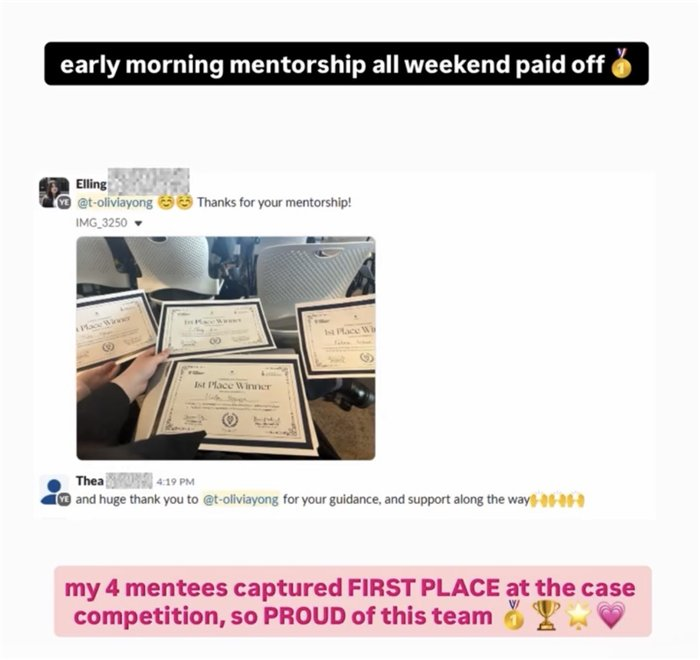
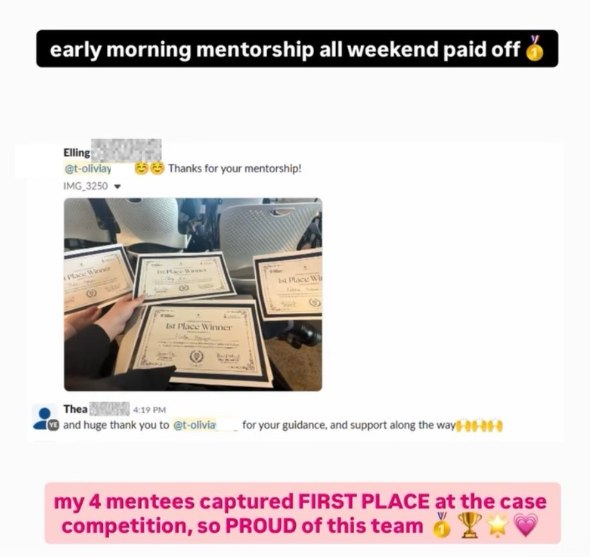
Use v2 case competition note

Changed region(s): [[0.0305, 0.2442, 0.8542, 0.7935], [0.061, 0.8546, 0.9763, 0.9767], [0.061, 0.0305, 0.9458, 0.1526]]

diff --git a/index.html b/index.html
@@ -116,7 +116,7 @@
           <div class="pins">
             <a class="pin" href="assets/notes/note-drawing.jpg" target="_blank" rel="noopener" title="Click to enlarge"><img src="assets/notes/note-drawing.jpg" alt="A hand-drawn thank you card with cats and confetti that says Thank you Olivia!" width="700" height="525" loading="lazy"></a>
             <a class="pin" href="assets/notes/note-dominated.jpg" target="_blank" rel="noopener" title="Click to enlarge"><img src="assets/notes/note-dominated.jpg" alt="Messages from a student: it's finally over, and not just over, I dominated. All thanks to you. Ur mvp" width="700" height="773" loading="lazy"></a>
-            <a class="pin" href="assets/notes/note-case-comp.jpg" target="_blank" rel="noopener" title="Click to enlarge"><img src="assets/notes/note-case-comp.jpg" alt="Four mentees thank Olivia after winning first place at a case competition" width="700" height="660" loading="lazy"></a>
+            <a class="pin" href="assets/notes/note-case-comp.jpg?v=202610042243" target="_blank" rel="noopener" title="Click to enlarge"><img src="assets/notes/note-case-comp.jpg?v=202610042243" alt="Four mentees thank Olivia after winning first place at a case competition" width="590" height="557" loading="lazy"></a>
             <a class="pin" href="assets/notes/note-messages.jpg" target="_blank" rel="noopener" title="Click to enlarge"><img src="assets/notes/note-messages.jpg" alt="Thank you messages from students accepted to Smith, Rotman Commerce and Ivey" width="475" height="374" loading="lazy"></a>
           </div>
         </div>
